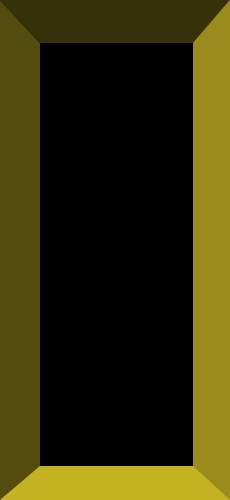
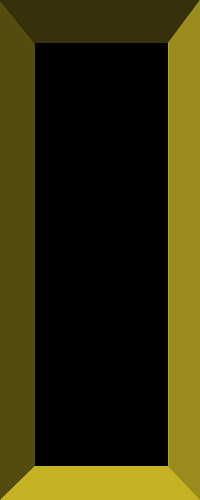
g

Changed region(s): [[0.81, 0.09, 0.87, 0.93]]

diff --git a/Run4FunMonogame/Run4FunMonogame/Run4FunGame.cs b/Run4FunMonogame/Run4FunMonogame/Run4FunGame.cs
@@ -45,7 +45,7 @@ namespace Run4Fun
         private Random random = new Random();
 
         private bool dashEnabled = false;
-        private int energyAmount = 10;
+        private int energyAmount = GameConstants.START_ENERGY_AMOUNT;
         private int colorForEnergy;
         private bool colorEventEnabled = false;
         private int colorEnergyCountDown = 5;
@@ -61,7 +61,6 @@ namespace Run4Fun
 
         private bool gamePaused = false;
 
-        private SoundEffect soundEffect;
         private Song gameSong;
 
         private bool gameJustStarted = true;
@@ -71,6 +70,7 @@ namespace Run4Fun
             graphics = new GraphicsDeviceManager(this);
             graphics.PreferredBackBufferWidth = 1920;
             graphics.PreferredBackBufferHeight = 1080;
+            //graphics.ToggleFullScreen();
             Window.AllowUserResizing = true;
             Content.RootDirectory = "Content";
         }
@@ -100,7 +100,7 @@ namespace Run4Fun
 
             // Load images.
             backgroundImage = Content.Load<Texture2D>("background");
-            player = new Player(Content.Load<Texture2D>("player"), new Vector2((GameConstants.WINDOW_WIDTH / 2) - (GameConstants.playerWidth / 2), GameConstants.WINDOW_HEIGHT - 200));
+            player = new Player(Content.Load<Texture2D>("player"), new Vector2((GameConstants.WINDOW_WIDTH / 2) - (GameConstants.PLAYER_WIDTH / 2), GameConstants.WINDOW_HEIGHT - GameConstants.PLAYER_START_HEIGHT_OFFSET));
             energyBarTexture = Content.Load<Texture2D>("energy");
 
             fallingParticleTexture = Content.Load<Texture2D>("fallingparticle");
@@ -232,8 +232,6 @@ namespace Run4Fun
                 spawnAndRemoveTiles();
             }
 
-
-
             // Increase tile spawn frequency.
             thirtySecondTimer += (int)gameTime.ElapsedGameTime.TotalMilliseconds;
             if (thirtySecondTimer >= 30000)
@@ -346,7 +344,9 @@ namespace Run4Fun
                 }
                 else if (message != null && message.MailboxTitle == "Color")
                 {
-                    if (colorEventEnabled && colorForEnergy == message.ValueAsNumber)
+                    int color = (int)message.ValueAsNumber;
+                    Console.WriteLine(color);
+                    if (colorEventEnabled && colorForEnergy == color)
                     {
                         addEnergyAndScoreAndUpdate();
                     }
@@ -538,7 +538,7 @@ namespace Run4Fun
         /// </summary>
         private void checkForCollision()
         {
-            if (!GameConstants.collisionEnabled || dashEnabled)
+            if (!GameConstants.COLLISION_ENABLED || dashEnabled)
             {
                 return;
             }
@@ -555,9 +555,10 @@ namespace Run4Fun
                 }
             }
         }
-
+    
         private void putEV3InOriginalPosition()
         {
+          //  readEV3MessageAndDoAction();
             while (currentLane != (int)lanePlayer.LANE_3_GREEN)
             {
                 if (currentLane > (int)lanePlayer.LANE_3_GREEN)
@@ -576,7 +577,6 @@ namespace Run4Fun
         private void startPlayingGameSong()
         {
             MediaPlayer.Play(gameSong);
-            MediaPlayer.Volume = 0.2f;
         }
 
         /// <summary>
@@ -750,7 +750,8 @@ namespace Run4Fun
                     color = Color.Green;
                     break;
                 case 4:
-                    color = Color.Yellow;
+                    //color = Color.Yellow;
+                    color = Color.DarkOrange;
                     break;
                 case 5:
                     color = Color.Red;
@@ -912,34 +913,34 @@ namespace Run4Fun
             spriteBatch.Draw(backgroundImage, new Rectangle(0, 0, backgroundImage.Width, backgroundImage.Height), Color.White);
 
             // Draw score.
-            spriteBatch.DrawString(font, "SCORE: ", new Vector2(1600, 300), GameConstants.colorText);
-            spriteBatch.DrawString(font, score.ToString(), new Vector2(1600, 350), GameConstants.colorTextNumber);
+            spriteBatch.DrawString(font, "SCORE: ", new Vector2(1600, 300), GameConstants.TEXT_COLOR);
+            spriteBatch.DrawString(font, score.ToString(), new Vector2(1600, 350), GameConstants.NUMBER_COLOR);
 
             // Draw current level.
-            spriteBatch.DrawString(font, "LEVEL: ", new Vector2(1600, 500), GameConstants.colorText);
-            spriteBatch.DrawString(font, level.ToString(), new Vector2(1600, 550), GameConstants.colorTextNumber);
+            spriteBatch.DrawString(font, "LEVEL: ", new Vector2(1600, 500), GameConstants.TEXT_COLOR);
+            spriteBatch.DrawString(font, level.ToString(), new Vector2(1600, 550), GameConstants.NUMBER_COLOR);
 
             // Draw energy and energy bar.
-            spriteBatch.DrawString(font, "ENERGY: ", new Vector2(10, 350), GameConstants.colorText);
-            spriteBatch.DrawString(hugefont, energyAmount.ToString(), new Vector2(10, 400), GameConstants.colorTextNumber);
+            spriteBatch.DrawString(font, "ENERGY: ", new Vector2(10, 350), GameConstants.TEXT_COLOR);
+            spriteBatch.DrawString(hugefont, energyAmount.ToString(), new Vector2(10, 400), GameConstants.NUMBER_COLOR);
             spriteBatch.Draw(energyBarTexture, energyRectangle, Color.White);
 
             // If energy amount is 100 or above, show "MAX ENERGY".
             if (energyAmount >= 100)
             {
-                spriteBatch.DrawString(font, "MAX ENERGY", new Vector2(10, 570), GameConstants.colorText);
+                spriteBatch.DrawString(font, "MAX ENERGY", new Vector2(10, 570), GameConstants.TEXT_COLOR);
             }
 
             // Draw tiles.
             foreach (Tile tile in tiles)
             {
-                spriteBatch.Draw(tile.image, tile.position, GameConstants.colorTile);
+                spriteBatch.Draw(tile.image, tile.position, GameConstants.TILE_COLOR);
             }
 
             // Draw player.
-            if (GameConstants.drawPlayerEnabled)
+            if (GameConstants.DRAW_PLAYER_ENABLED)
             {
-                spriteBatch.Draw(player.image, player.position, GameConstants.colorPlayer);
+                spriteBatch.Draw(player.image, player.position, GameConstants.PLAYER_COLOR);
             }
 
             // Draw particles.
@@ -947,7 +948,7 @@ namespace Run4Fun
             {
                 foreach (FallingParticle particle in particles)
                 {
-                    spriteBatch.Draw(fallingParticleTexture, particle.position, GameConstants.colorParticles);
+                    spriteBatch.Draw(fallingParticleTexture, particle.position, GameConstants.PARTICLE_COLOR);
                 }
             }
 
@@ -965,12 +966,12 @@ namespace Run4Fun
 
             if (gamePaused)
             {
-                drawTextInMiddle("GAME PAUSED", bigfont, 400, GameConstants.colorPause);
+                drawTextInMiddle("GAME PAUSED", bigfont, 400, GameConstants.PAUSE_COLOR);
             }
 
             if (recentlyLeveled)
             {
-                drawTextInMiddle("LEVEL " + level, bigfont, 300, GameConstants.colorLeveled);
+                drawTextInMiddle("LEVEL " + level, bigfont, 300, GameConstants.LEVEL_UP_COLOR);
             }
 
             spriteBatch.End();
@@ -987,6 +988,7 @@ namespace Run4Fun
         protected override void OnExiting(Object sender, EventArgs args)
         {
             base.OnExiting(sender, args);
+            putEV3InOriginalPosition();
             stopPlayingSound();
             new StartForm().ShowDialog();
         }

diff --git a/Run4FunMonogame/Run4FunMonogame/GameConstants.cs b/Run4FunMonogame/Run4FunMonogame/GameConstants.cs
@@ -8,26 +8,29 @@ namespace Run4Fun.Sprites
 {
     class GameConstants
     {
-        public const int playerWidth = 100,
-            playerHeight = 100;
+        public const int START_ENERGY_AMOUNT = 10;
+        public const bool COLLISION_ENABLED = true;
+        public const bool DRAW_PLAYER_ENABLED = false;
+        public const int PLAYER_START_HEIGHT_OFFSET = 200;
 
-        public const int TILE_WIDTH = 230,
+        public const int PLAYER_WIDTH = 100,
+            PLAYER_HEIGHT = 100;
+
+        public const int TILE_WIDTH = 200,
             TILE_HEIGHT = 500,
             WINDOW_WIDTH = 1920,
             WINDOW_HEIGHT = 1080;
 
-        public const bool collisionEnabled = true;
         public const int playerSpeedAcceleration = 10; // 10 or 23
-        public const bool drawPlayerEnabled = true;
         public const bool drawFallingParticles = true;
         public const int particleSpeed = 30;
 
-        public static readonly Color colorText = Color.Gold;
-        public static readonly Color colorTextNumber = Color.Gold;
-        public static readonly Color colorPause = Color.Red;
-        public static readonly Color colorLeveled = Color.Green;
-        public static readonly Color colorTile = Color.White;
-        public static readonly Color colorPlayer = Color.Red;
-        public static readonly Color colorParticles = Color.Gray;
+        public static readonly Color TEXT_COLOR = Color.Gold;
+        public static readonly Color NUMBER_COLOR = Color.Gold;
+        public static readonly Color PAUSE_COLOR = Color.Red;
+        public static readonly Color LEVEL_UP_COLOR = Color.Green;
+        public static readonly Color TILE_COLOR = Color.White;
+        public static readonly Color PLAYER_COLOR = Color.Red;
+        public static readonly Color PARTICLE_COLOR = Color.Black;
     }
 }

diff --git a/Run4FunMonogame/Run4FunMonogame/Program.cs b/Run4FunMonogame/Run4FunMonogame/Program.cs
@@ -11,7 +11,7 @@ namespace Run4Fun
     public static class Program
     {
         public static EV3Messenger ev3Messenger = new EV3Messenger();
-        private const string EV3_SERIAL_PORT = "COM40";
+        private const string EV3_SERIAL_PORT = "COM47";
 
         /// <summary>
         /// The main entry point for the application.
